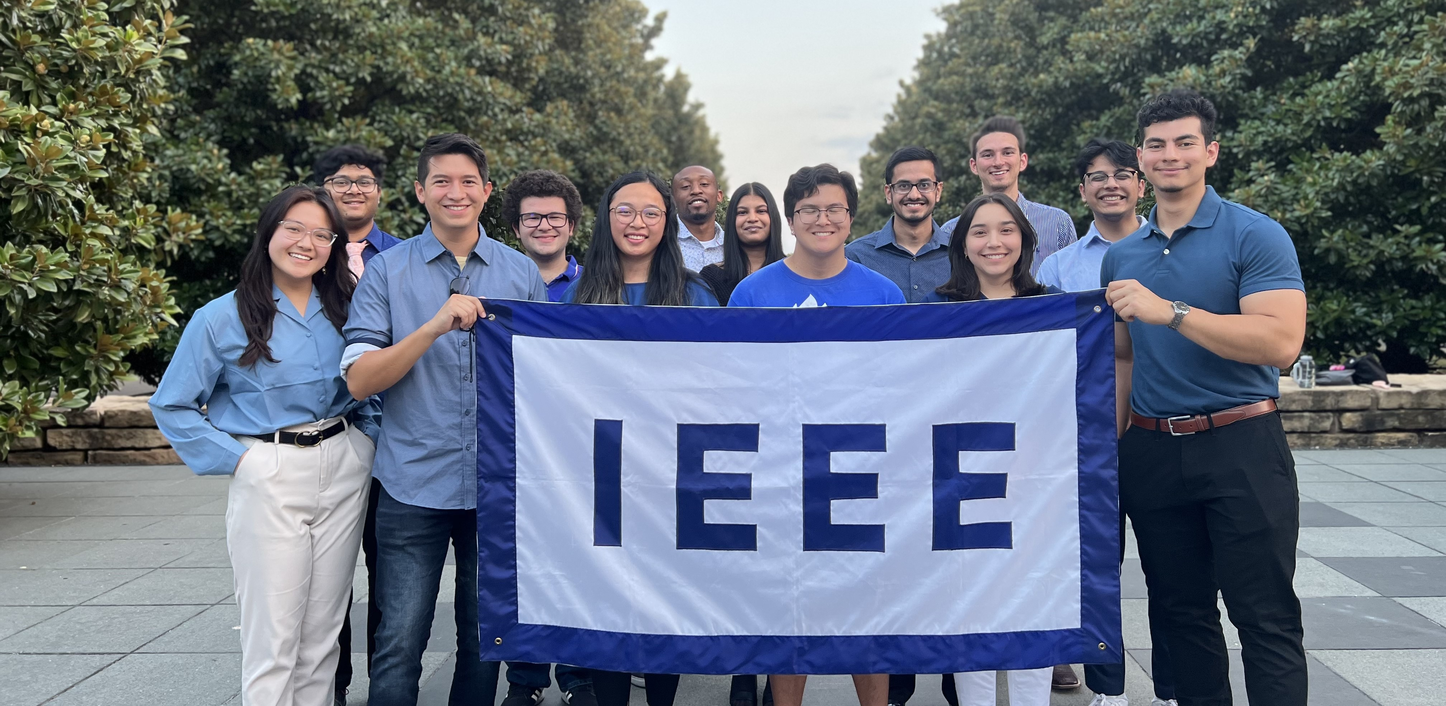
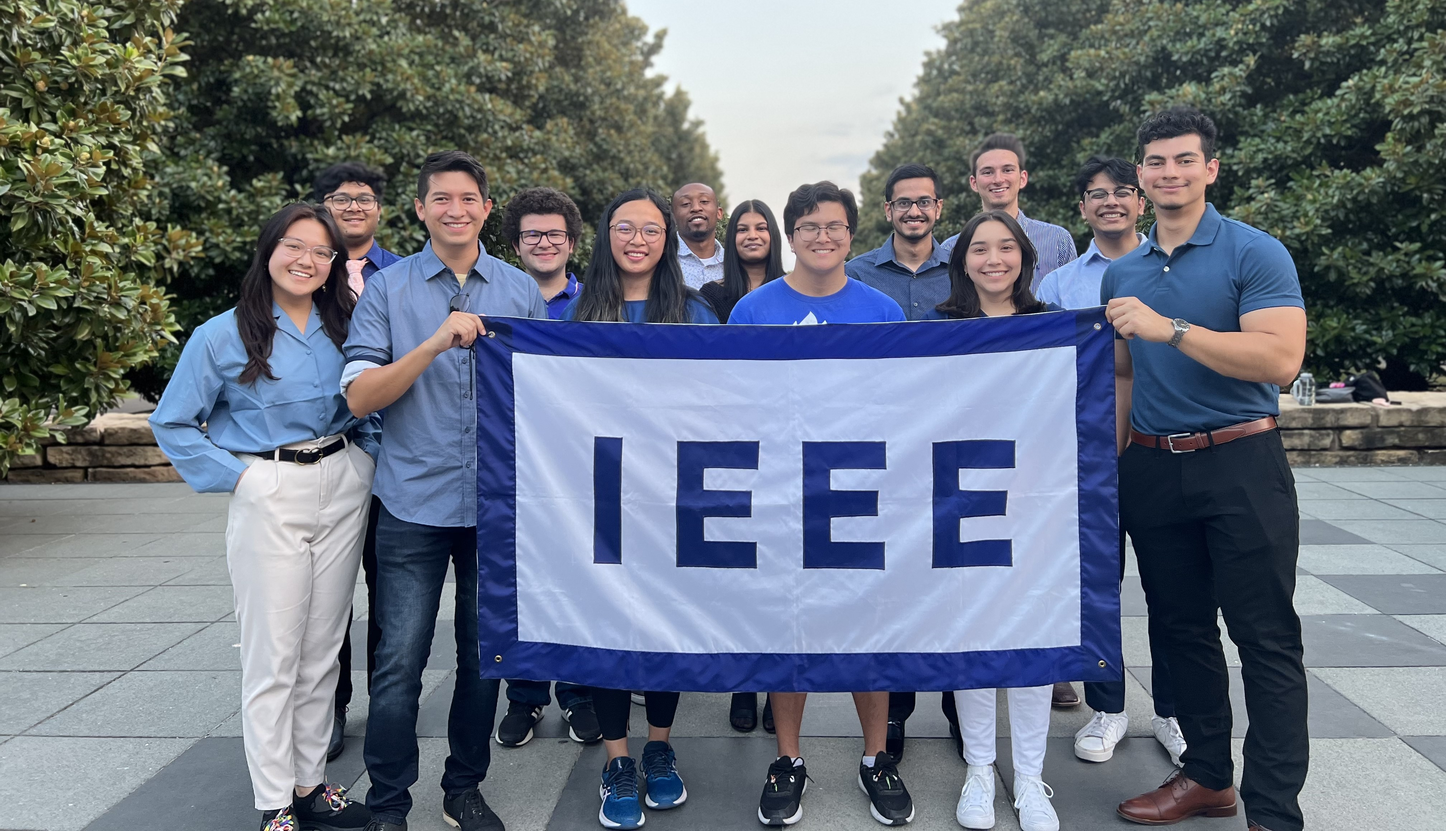
fade in effect

diff --git a/src/components/committeeMembers.js b/src/components/committeeMembers.js
@@ -2,35 +2,35 @@ const committeeMembers = [
     {
         name: "Allison Pham",
         title: "President",
-        image: require("../assets/IEEE/Allison_Pham.png"),
+        image: require("../assets/IEEE/Allison.jpeg"),
         linkedin: "https://www.linkedin.com/in/allison-nhi-pham/",
         email: "anp200002@utdallas.edu",
     },
     {
         name: "Jacob Martin",
         title: "Vice President",
-        image: "",
+        image: require('../assets/IEEE/Jacob.jpeg'),
         linkedin: "", // Please provide the LinkedIn profile if available
         email: "jrm190007@utdallas.edu",
     },
     {
         name: "Gaby Tobias",
         title: "Treasurer",
-        image: "",
+        image: require("../assets/IEEE/Gaby.jpeg"),
         linkedin: "", // Please provide the LinkedIn profile if available
         email: "gst200000@utdallas.edu",
     },
     {
         name: "Alex Monroy",
         title: "Secretary",
-        image: "", // Please provide the image if available
+        image: require("../assets/IEEE/Alex.jpeg"), // Please provide the image if available
         linkedin: "", // Please provide the LinkedIn profile if available
         email: "aas170530@utdallas.edu",
     },
     {
         name: "Kevin Debord",
         title: "Advisor",
-        image: "", // Please provide the image if available
+        image: require("../assets/IEEE/Kevin.jpeg"), // Please provide the image if available
         linkedin: "", // Please provide the LinkedIn profile if available
         email: "kjd200004@utdallas.edu",
     },
@@ -43,28 +43,28 @@ const committeeMembers = [
     {
         name: "Nethra",
         title: "Director of Tutoring",
-        image: "", // Please provide the image if available
+        image: require("../assets/IEEE/Nethra.jpeg"), // Please provide the image if available
         linkedin: "", // Please provide the LinkedIn profile if available
         email: "nxs200035@utdallas.edu",
     },
     {
         name: "Laura Pinto",
         title: "Director of Operations",
-        image: "", // Please provide the image if available
+        image: require("../assets/IEEE/Laura.jpeg"), // Please provide the image if available
         linkedin: "", // Please provide the LinkedIn profile if available
         email: "lsp210000@utdallas.edu",
     },
     {
         name: "James Odebiyi",
         title: "Web Master",
-        image: require("../assets/IEEE/James_Odebiyi.png"),
+        image: require("../assets/IEEE/James.jpeg"),
         linkedin: "", // Please provide the LinkedIn profile if available
         email: "jxo190003@utdallas.edu",
     },
     {
         name: "Mason",
         title: "Director of Business",
-        image: "", // Please provide the image if available
+        image: require("../assets/IEEE/Mason.jpeg"), 
         linkedin: "", // Please provide the LinkedIn profile if available
         email: "msr200000@utdallas.edu",
     },
@@ -78,35 +78,35 @@ const committeeMembers = [
     {
         name: "Jane Bae",
         title: "RF Director",
-        image: "", // Please provide the image if available
+        image: require("../assets/IEEE/Jane.jpeg"),
         linkedin: "", // Please provide the LinkedIn profile if available
         email: "jxb190001@utdallas.edu"
     },
     {
         name: "Muneeb",
         title: "RF Project Supervisor",
-        image: "", // Please provide the image if available
+        image: require("../assets/IEEE/Muneeb.jpeg"), // Please provide the image if available
         linkedin: "", // Please provide the LinkedIn profile if available
         email: "mss200007@utdallas.edu",
     },
     {
         name: "Zaid",
         title: "PES Project Supervisor",
-        image: "", // Please provide the image if available
+        image: require("../assets/IEEE/Zaid.jpeg"), // Please provide the image if available
         linkedin: "", // Please provide the LinkedIn profile if available
         email: "mxz190024@utdallas.edu",
     },
     {
         name: "Manuel Contreras",
         title: "PES Director",
-        image: "", // Please provide the image if available
+        image: require("../assets/IEEE/Manuel.jpeg"), // Please provide the image if available
         linkedin: "", // Please provide the LinkedIn profile if available
         email: "mad210014@utdallas.edu",
     },
     {
         name: "Ian Kintz",
         title: "Director of Robotics",
-        image: "", // Please provide the image if available
+        image: require("../assets/IEEE/Ian.jpeg"), // Please provide the image if available
         linkedin: "", // Please provide the LinkedIn profile if available
         email: "ijk180001@utdallas.edu",
     },

diff --git a/src/pages/officers.js b/src/pages/officers.js
@@ -1,34 +1,52 @@
-// import Executives from '@/components/Executives';
 import EventsCommittee from '@/components/EventsCommittee';
-// import TechCommittee from '@/components/TechCommittee';
-// import Tutoring from '@/components/Tutoring';
-// import Pes from '@/components/Pes'
-// import Developers from '@/components/Developers';
 import styles from '@/styles/Committees.module.css';
 import Image from 'next/image';
 import Officers from '@/assets/IEEE/Officers.jpeg';
 import officerData from '@/components/committeeMembers';
 import Member from '@/components/Member';
+import React from 'react';
+
+function FadeInSection(props) {
+	const [isVisible, setVisible] = React.useState(false);
+	const domRef = React.useRef();
+	React.useEffect(() => {
+	  const observer = new IntersectionObserver(entries => {
+			entries.forEach(entry => entry.isIntersecting && setVisible(true));	
+	  });
+	  observer.observe(domRef.current);
+	  return () => observer.unobserve(domRef.current);
+	}, []);
+	return (
+	  <div
+		className={`${styles['fade-in-section']} ${isVisible ? styles['is-visible'] : ''}`}
+		ref={domRef}>
+		{props.children}
+	  </div>
+	);
+}
+
 
 
 export default function Committees() {
 	let mappedMembers = officerData.map((member) => {
 		return (
-			<Member
-				name={member.name}
-				title={member.title}
-				image={member.image}
-				linkedin={member.linkedin}
-				email={member.email}
-				key={member.name}
-			/>
+			<FadeInSection key={member.name}>
+				<Member
+					name={member.name}
+					title={member.title}
+					image={member.image}
+					linkedin={member.linkedin}
+					email={member.email}
+					key={member.name}
+				/>
+			</FadeInSection>
 		);
 	});
 	return (
 	<>
 		<div className={styles.group__container}>
 			<div className="tw-absolute tw-flex tw-flex-col tw-items-center tw-justify-center tw-w-[100vw] tw-h-full">
-				<div className="tw-justify-center tw-text-white tw-text-[5rem] tw-font-bold">
+				<div className="tw-justify-center tw-text-white tw-text-[5rem] tw-font-bold tw-z-10">
 					<h1 className='tw-text-center tw-text-[6vw]'>2023-2024</h1>
 					<h1 className='tw-text-[6vw]'>IEEE Officers</h1>
 				</div>
@@ -79,3 +97,4 @@ export default function Committees() {
 	// 	</div>
 	// );
 }
+

diff --git a/src/styles/Committees.module.css b/src/styles/Committees.module.css
@@ -55,8 +55,6 @@
     color: #FFFFFF;
     margin-top: 15%;
     justify-content: center;
-
-  
   }
 
   .overlay {
@@ -76,40 +74,31 @@
   }
 
   .group__container .group__img {
-
-    
     width: 100%;
     height: auto;
     object-fit: contain;
   }
+  .group__img {
+    filter: brightness(.7);  
+    z-index: 0;
+  }
 
   .image{
-
     /* background-color: gray; */
     display: flex;
-
     width: 100%;
-
-
   }
-
-  .fade__in {
+  .fade-in-section {
     opacity: 0;
-    animation-name: fadeIn;
-    animation-duration: 1s;
-    animation-fill-mode: forwards;
-    transform: translateY(5%)
+    transform: translateY(10vh);
+    visibility: hidden;
+    transition: opacity .6s ease-out, transform 1.2s ease-out;
+    will-change: opacity, visibility;
   }
-  
-  @keyframes fadeIn {
-    from {
-      opacity: 0;
-      transform: translateY(5%)
-    }
-    to {
-      opacity: 1;
-      transform: translateY(0)
-    }
+  .fade-in-section.is-visible {
+    opacity: 1;
+    transform: none;
+    visibility: visible;
   }
 
   .mainContainer {
@@ -136,35 +125,22 @@
     animation-fill-mode: forwards;
   }
 
-
   .info {
-
     display: flex;
     flex-direction: column;
-    
-    
   }
 
   .info__title{
 
-    
     font-weight: bold;
     text-align: center;
-    
- 
-
   }
 
   .profile__container {
-
     display: flex;
     flex-direction: column;
     align-items: center;
     margin-bottom: 5vh;
-    
-
-
-
   }
 
   .name { 
